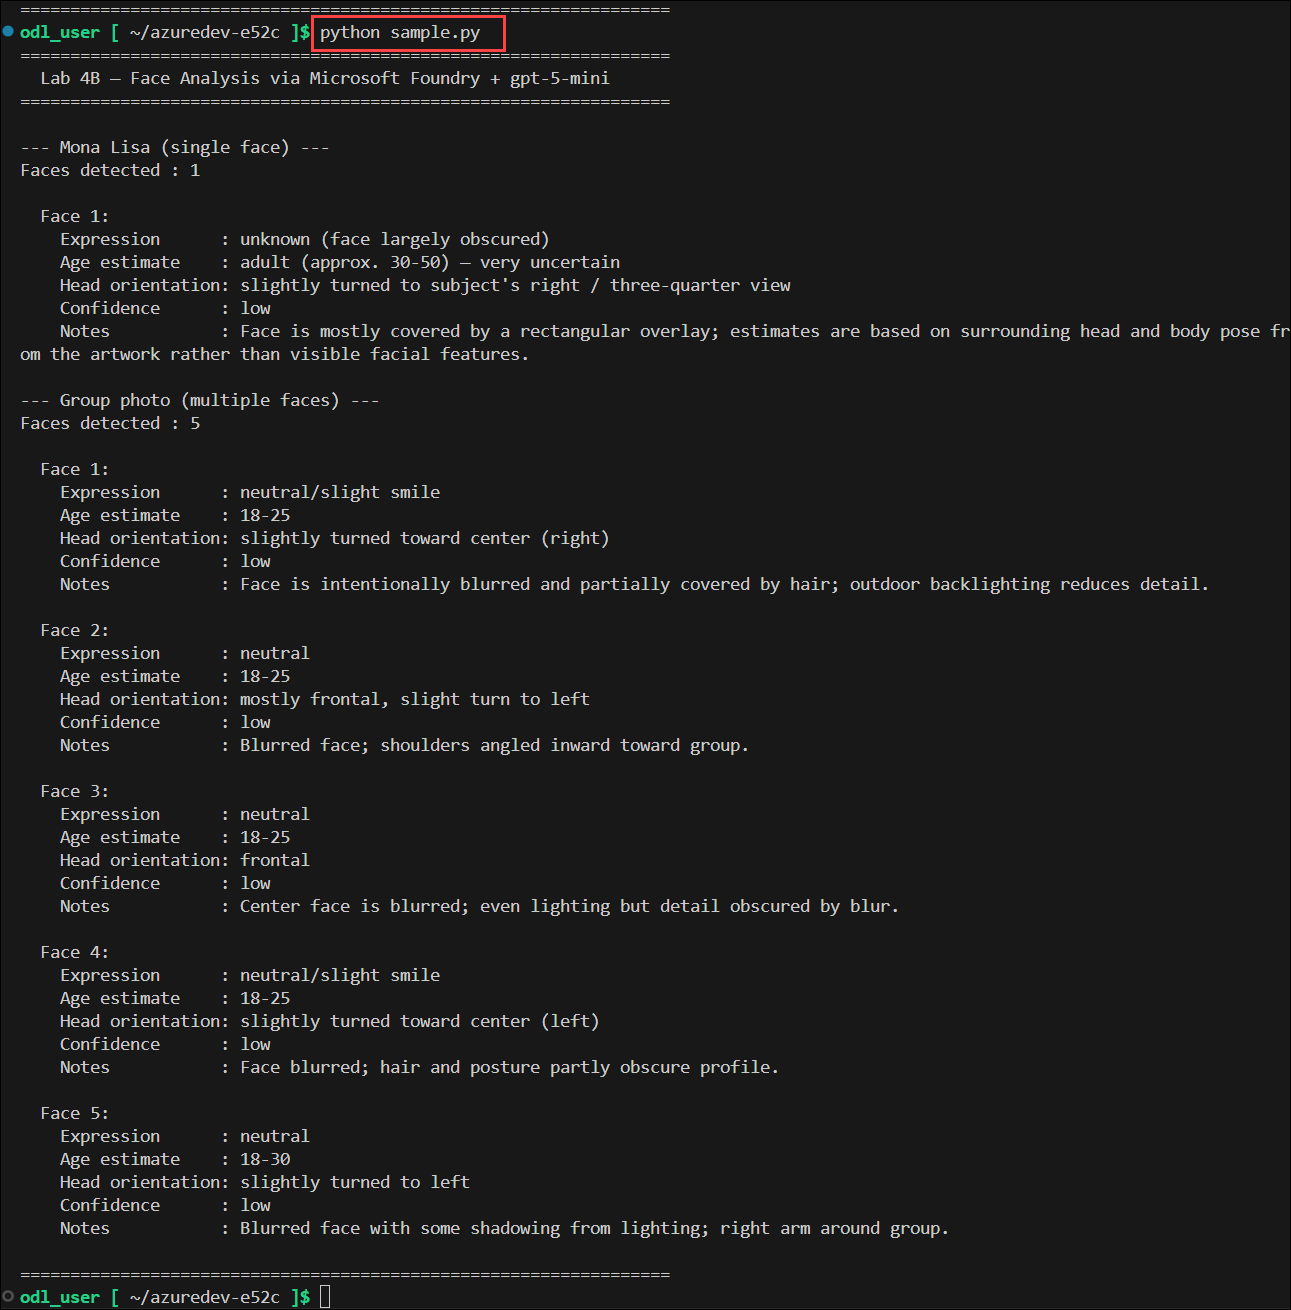
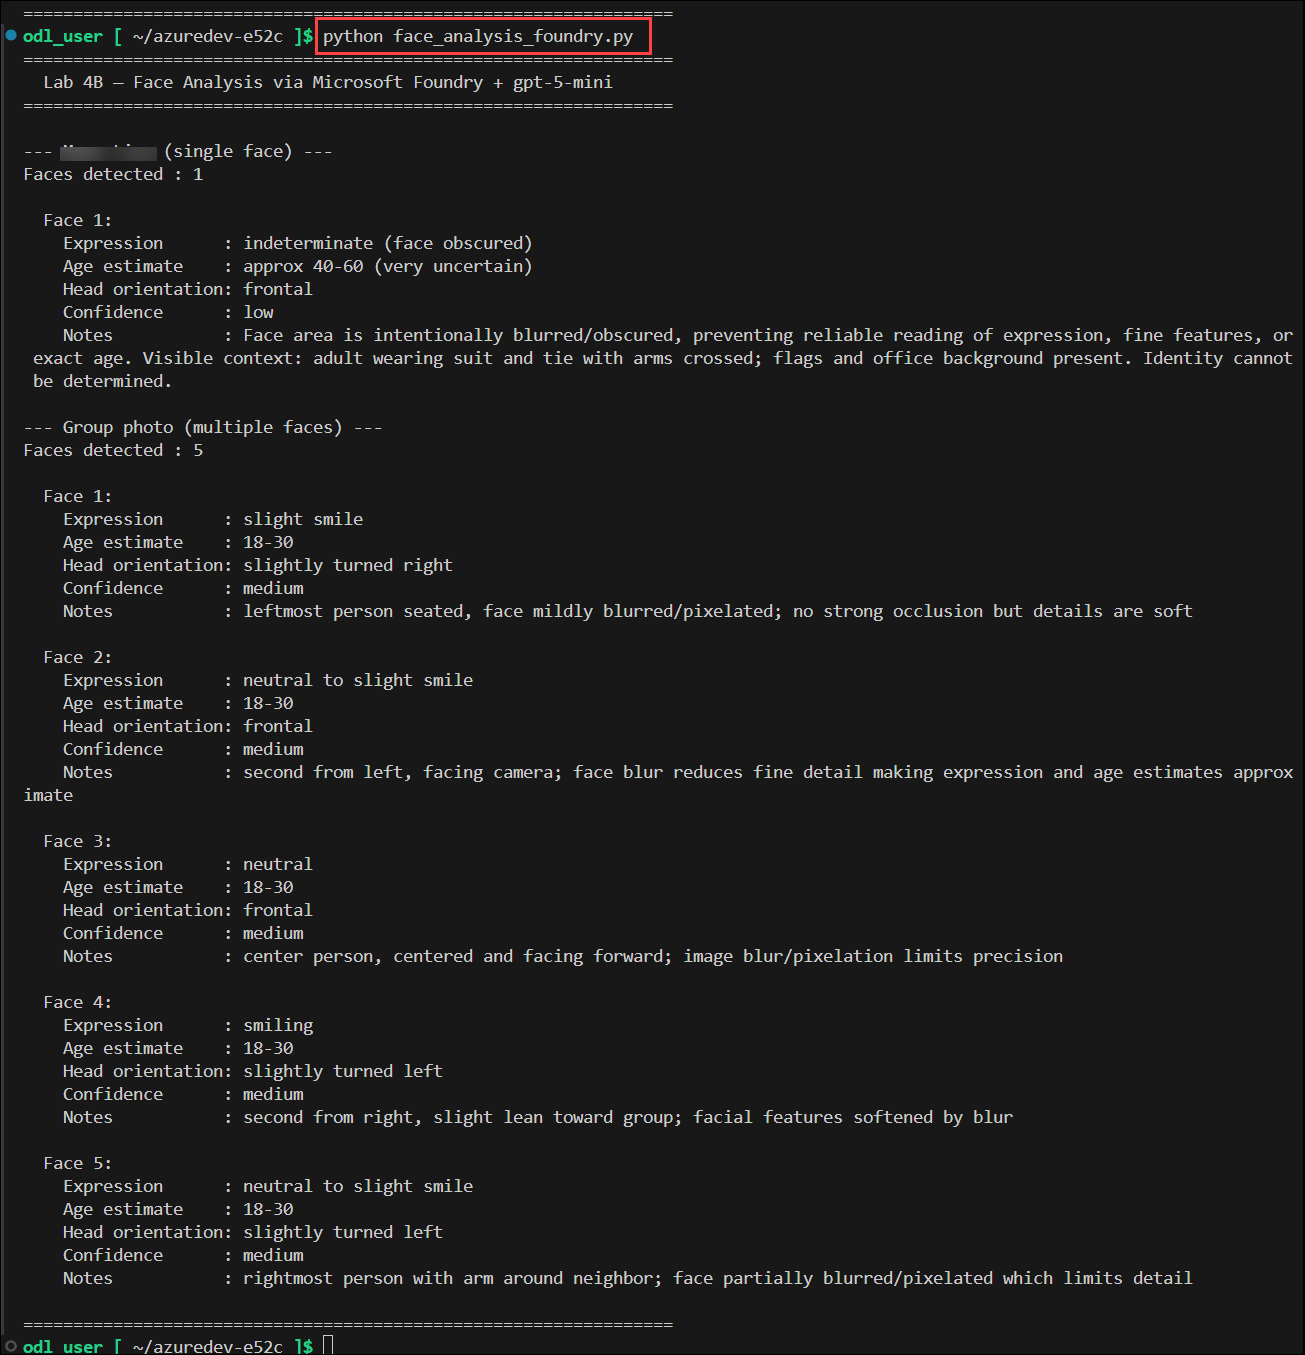
minor fix

Changed region(s): [[0.0, 0.0, 0.9915, 1.0], [0.6816, 0.8244, 0.7126, 0.855]]

diff --git a/Instructions/Labs/09new-face-analysis.md b/Instructions/Labs/09new-face-analysis.md
@@ -353,8 +353,8 @@ In this task, you'll create a Python application that uses the Azure AI Foundry 
       # Test Images 
       TEST_IMAGES = [
          (
-               'Mona Lisa (single face)',
-               'https://github.com/CloudLabs-MOC/mslearn-ai-fundamentals/blob/ai901-2026/Instructions/Labs/images/Mona_Lisa.jpg?raw=true'
+               'Potrait (single face)',
+               'https://github.com/CloudLabs-MOC/mslearn-ai-fundamentals/blob/ai901-2026/Instructions/Labs/images/President_Barack_Obama.jpg?raw=true'
             ),
          (
             'Group photo (multiple faces)',
